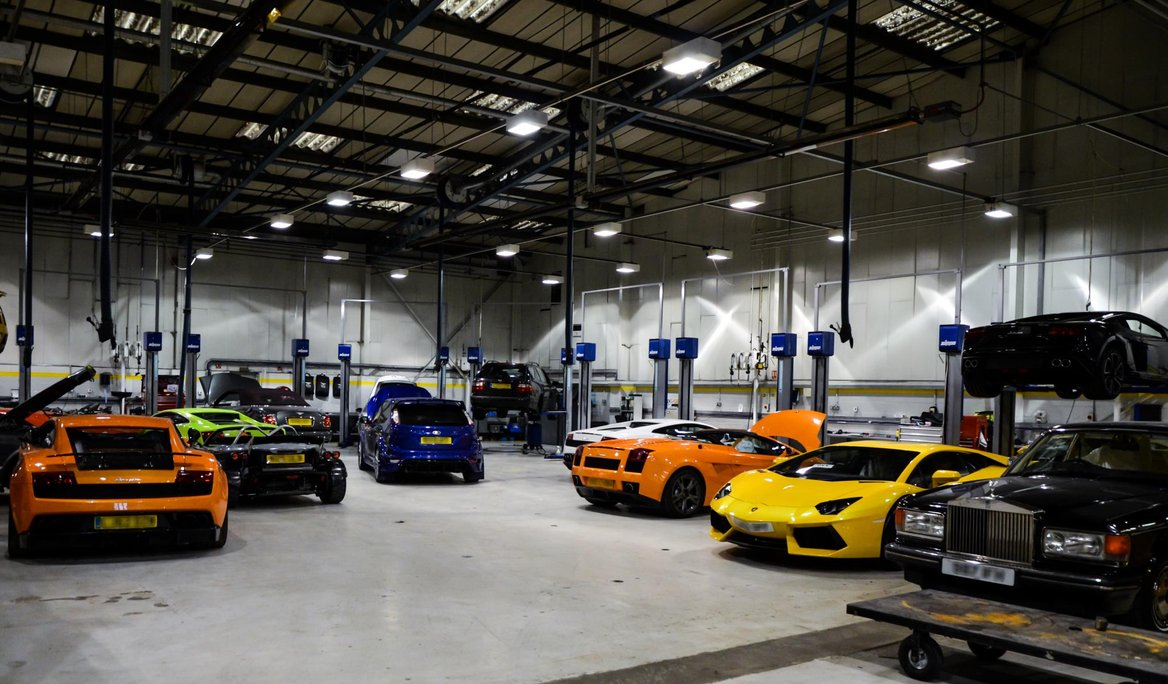
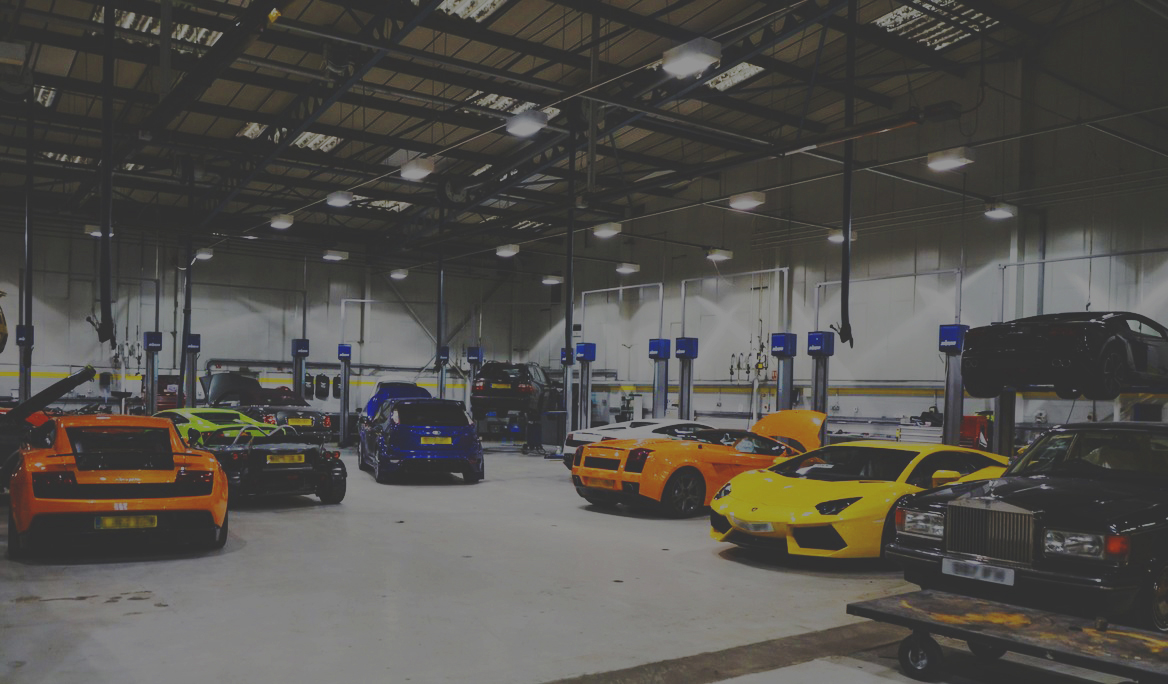
Change Landing pages picture

diff --git a/app/assets/stylesheets/custom.css.scss b/app/assets/stylesheets/custom.css.scss
@@ -58,7 +58,7 @@ line-height: 1.7em;
 /* header */
 
 .main_header {
-  background-image: image-url('supra.jpg');
+  background-image: image-url('landing-page.jpg');
   background-position: center center;
 }
 
